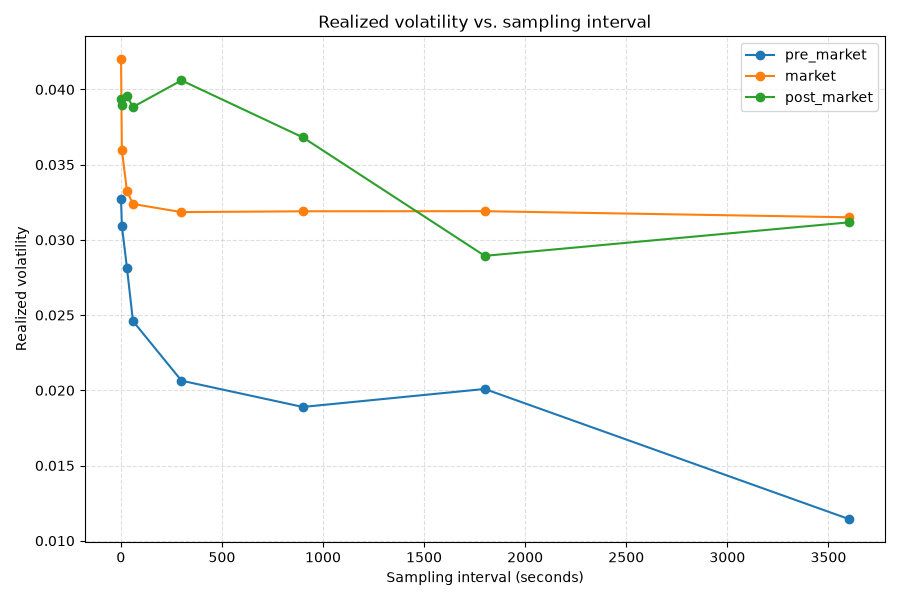
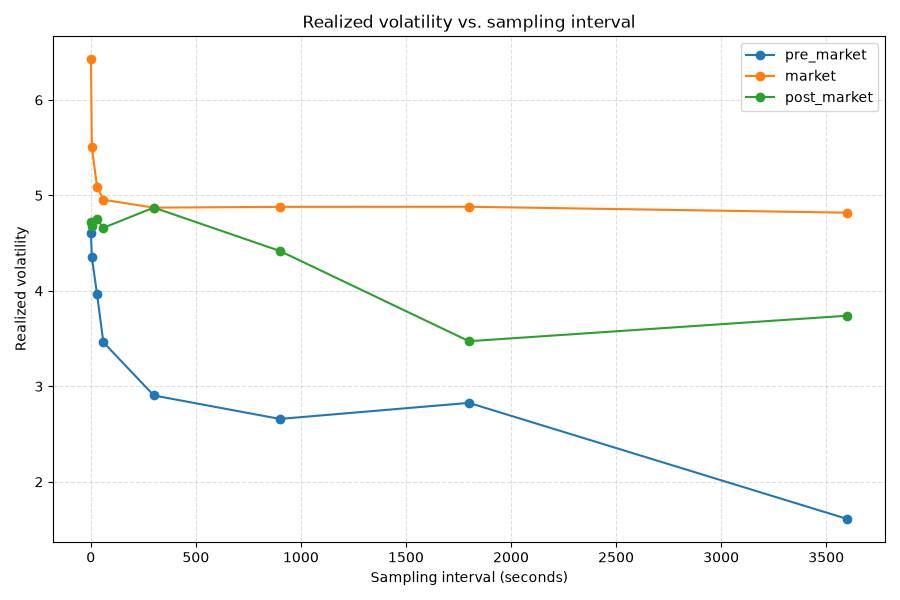
minor changes

diff --git a/experiments.py b/experiments.py
@@ -61,10 +61,18 @@ CONFIG = {
     # to the same day to only run one day, same as before). Graphs 4 and 5
     # are built from the same replay, so this one switch covers all three.
     'run_trace': True,
-    'trace_start_date': date(2026, 7, 1),
-    'trace_end_date': date(2026, 8, 1),
+    'trace_start_date': date(2025, 3, 1),
+    'trace_end_date': date(2025, 4, 1),
     'risk_for_trace': 0.0004,
     'k_for_trace': 45,
+
+    # --- graph 5: y-axis cap ---------------------------------------------
+    # q spends most of its ticks near 0, so those bins tower over the tails and
+    # squash everything else flat. This caps the y-axis at a tick count: taller
+    # bars are drawn cut off at the cap (with their true height labelled) and
+    # every value still counts towards the bins, the mean and the sd. None =
+    # no cap, autoscale as before.
+    'q_dist_ymax': 500000,
 
     # --- graph 3z: zoomable trace ---------------------------------------
     # graph 3 draws a whole 6.5h session into 12 inches, so ~180k ticks land
@@ -79,8 +87,10 @@ CONFIG = {
     'trace_zoom_minutes': 5,
 
     # --- result cache ----------------------------------------------------
-    # replayed days are stored in experiment_cache/ keyed by (day, risk, k), so
-    # re-running the same combination is instant instead of 60-90s per day.
+    # replayed days are stored in experiment_cache/ keyed by (day, risk, k) and
+    # by the (T-t) decay main.spread() currently uses, so re-running the same
+    # combination is instant instead of 60-90s per day, and switching the decay
+    # to a constant and back does not throw the other one's results away.
     # Entries are invalidated automatically when main.py's model changes.
     # Set False to force a fresh replay (it still refreshes what it computes).
     'use_cache': True,
@@ -106,7 +116,7 @@ C_SYM = 'tab:orange'   # symmetric quotes: spread_symmetric(), no q skew
 # Q_BINS_MIN exceeds the observed span in shares the bins are narrower than one
 # share and the ones that no integer lands in come out empty -- the histogram
 # turns into a comb. Lower it to the span (printed at run time) to avoid that.
-WEALTH_BINS_MIN = 100
+WEALTH_BINS_MIN = 150
 Q_BINS_MIN = 1000
 
 
@@ -122,6 +132,10 @@ Q_BINS_MIN = 1000
 # plus the source of the functions that decide the numbers. Edit any of them
 # and the fingerprint changes, so stale entries are ignored rather than served.
 # That is what stops the cache handing back pre-flags-fix results.
+#
+# The (T-t) decay main.spread() is running is not left to the fingerprint: it
+# is probed and written into the key as well (see TDECAY below), so constant-t
+# and (1-t) results coexist on disk instead of evicting each other.
 # ============================================================
 USE_CACHE = True   # CONFIG['use_cache'] overrides this at run time
 CACHE_DIR = os.path.join(BASE_DIR, 'experiment_cache')
@@ -143,12 +157,69 @@ FINGERPRINT = _fingerprint()
 _summary = None
 
 
+# ------------------------------------------------------------
+# (T-t) tag: which time decay main.py is currently running
+#
+# main.spread() multiplies the inventory term by a decay factor D(t) -- (1-t)
+# for the real Avellaneda-Stoikov horizon, or a constant while the end-of-day
+# inventory blow-up is parked. That choice moves every number in a day, but it
+# is not an argument to updating(), so it cannot go into the key as one. It is
+# read back out of main.spread() instead, by calling it rather than by reading
+# its source, so any way of writing the same decay lands on the same tag and
+# main.py needs no edit to report it.
+#
+# The tag joins (day, risk, k) in the key, so a constant run and a (1-t) run
+# are stored side by side instead of overwriting each other -- flip main.spread
+# back and the earlier sweep is still on disk. FINGERPRINT above still guards
+# everything else about the model.
+# ------------------------------------------------------------
+def _decay(t):
+    """The factor main.spread() puts on the inventory term at time t.
+
+    Recovered by differencing, so the rest of the function cannot confuse it:
+    the term is (0.5 - q) * risk * var * D(t), so q=0 minus q=1 leaves
+    risk * var * D(t) and the log(1 + risk/k) part cancels out.
+    """
+    risk, var, k = 1e-4, 25.0, 45.0
+    return (main.spread(risk, 0, var, t, k)[0]
+            - main.spread(risk, 1, var, t, k)[0]) / (risk * var)
+
+
+def _decay_symmetric(t):
+    """Same for main.spread_symmetric(), which has no q to difference over.
+
+    Its term is 0.5 * risk * var * D(t), so two var values difference down to
+    0.5 * risk * (v1 - v2) * D(t) and the log part drops out again.
+    """
+    risk, k = 1e-4, 45.0
+    v1, v2 = 25.0, 50.0
+    return 2 * (main.spread_symmetric(risk, v1, t, k)[0]
+                - main.spread_symmetric(risk, v2, t, k)[0]) / (risk * (v1 - v2))
+
+
+def _decay_tag(decay):
+    """'c<value>' if the decay ignores t, 'v<t=0>-<t=0.9>' if it moves with it.
+
+    The value itself goes in, not just constant-or-not, so swapping the 0.5 for
+    0.3 becomes its own cache entry instead of silently replacing the last one.
+    """
+    d0, d1 = decay(0.0), decay(1.0)
+    if abs(d0 - d1) <= 1e-9 * max(1.0, abs(d0)):
+        return f'c{d0:.6g}'
+    return f'v{d0:.6g}-{decay(0.9):.6g}'
+
+
+TDECAY = f'{_decay_tag(_decay)}+{_decay_tag(_decay_symmetric)}'   # spread+spread_symmetric
+
+
 def _key(file_date, risk, k):
-    return f'{file_date}|risk={float(risk):.12g}|k={float(k):.12g}'
+    return f'{file_date}|risk={float(risk):.12g}|k={float(k):.12g}|T={TDECAY}'
 
 
 def _trace_path(file_date, risk, k):
-    return os.path.join(CACHE_DIR, f'trace_{file_date}_r{float(risk):.12g}_k{float(k):.12g}.npz')
+    return os.path.join(
+        CACHE_DIR,
+        f'trace_{file_date}_r{float(risk):.12g}_k{float(k):.12g}_T{TDECAY}.npz')
 
 
 def _load_summary():
@@ -496,7 +567,7 @@ def graph_wealth_distribution(daily, risk, k):
 # ============================================================
 # Graph 5: frequency distribution of q over every tick of every traced day
 # ============================================================
-def graph_q_distribution(daily, risk, k):
+def graph_q_distribution(daily, risk, k, ymax=None):
     q_all = np.concatenate([d['q'] for d in daily])
     sq_all = np.concatenate([d['sq'] for d in daily])
 
@@ -521,7 +592,18 @@ def graph_q_distribution(daily, risk, k):
     ax.axvline(0, color='black', linewidth=0.6)
     ax.set_xlabel('q (shares)')
     ax.set_ylabel('Ticks spent at this q')  # tick-weighted, not time-weighted
-    ax.set_title(f'Inventory distribution over {len(daily)} day(s)  (risk={risk}, k={k})')
+    title = f'Inventory distribution over {len(daily)} day(s)  (risk={risk}, k={k})'
+
+    if ymax is not None:
+        # clip the view, not the data: every tick still lands in its bin and in
+        # the mean/sd above, the bars that run past the cap are just drawn cut off
+        n_clipped = sum(int((np.histogram(x, bins=bins)[0] > ymax).sum())
+                        for x in (q_all, sq_all))
+        ax.set_ylim(0, ymax)
+        if n_clipped:
+            title += f'  --  y capped at {ymax:,}, {n_clipped} bar(s) cut off'
+
+    ax.set_title(title)
     ax.legend()
     ax.grid(True)
     fig.tight_layout()
@@ -548,6 +630,7 @@ def main_run():
         print('Every graph is switched off in CONFIG -- nothing to do.')
         return
 
+    print(f'Model: T-t decay {TDECAY} (fingerprint {FINGERPRINT})')
     print(f'Loading {len(fnames)} trading day(s)...')
     data_cache = main.data(list(fnames))
 
@@ -606,7 +689,8 @@ def main_run():
             fig4.savefig(os.path.join(OUT_DIR, '4_wealth_distribution.pdf'))
             figs.append(fig4)
 
-            fig5 = graph_q_distribution(daily, cfg['risk_for_trace'], cfg['k_for_trace'])
+            fig5 = graph_q_distribution(daily, cfg['risk_for_trace'], cfg['k_for_trace'],
+                                        cfg.get('q_dist_ymax'))
             fig5.savefig(os.path.join(OUT_DIR, '5_q_distribution.pdf'))
             figs.append(fig5)
             saved += 2
